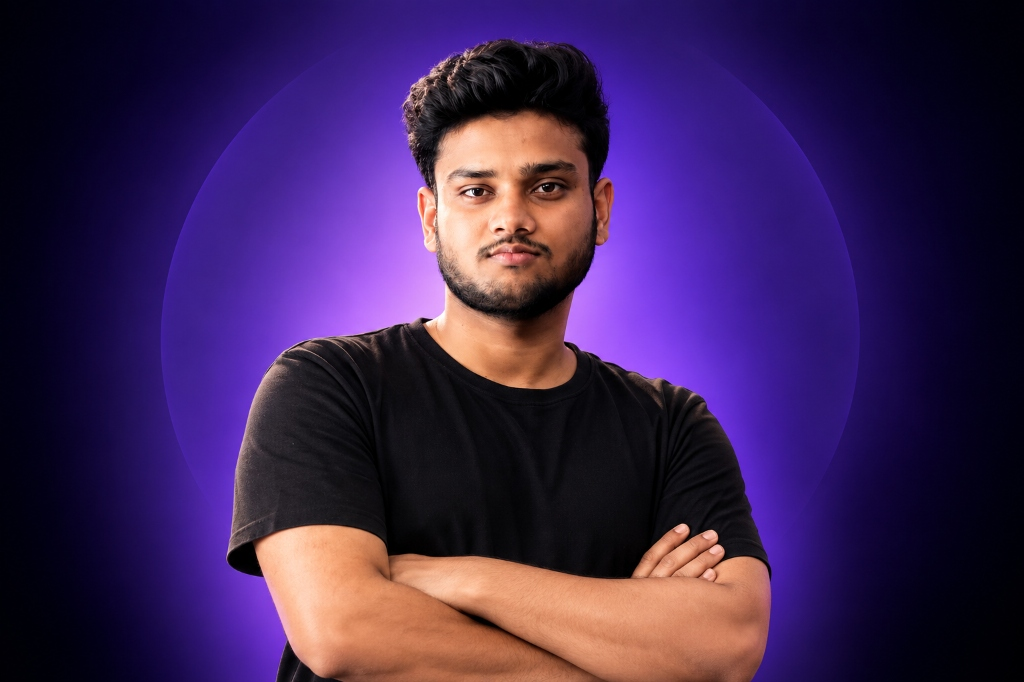
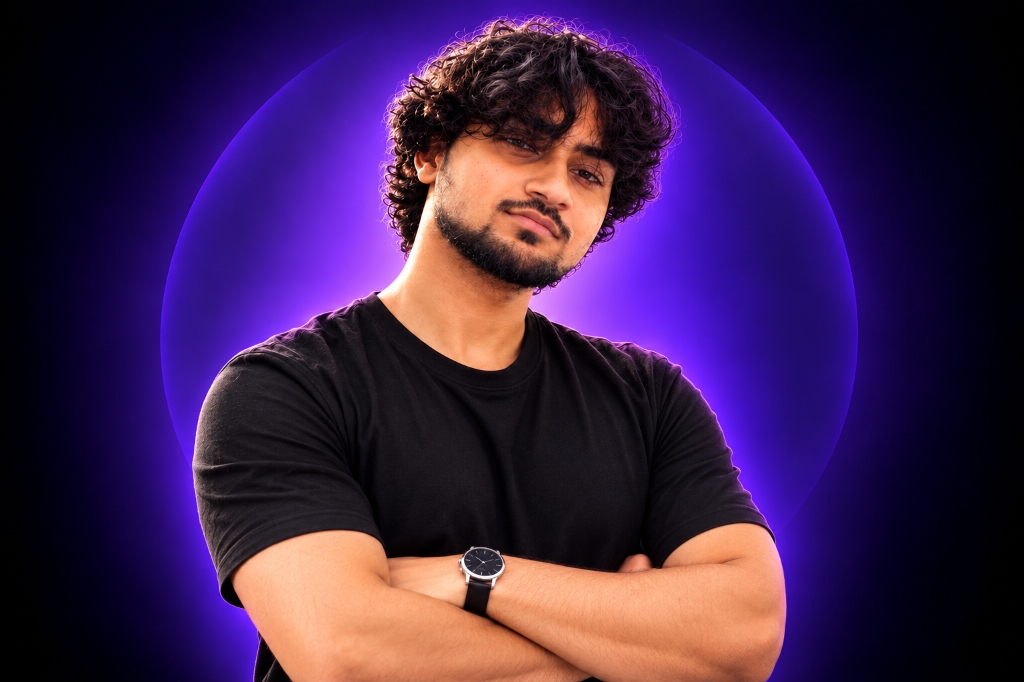
UI: Map correct mentor portraits and add Sparsh Bansal

diff --git a/src/App.tsx b/src/App.tsx
@@ -75,7 +75,7 @@ const mentors: MentorCard[] = [
   { initials: 'R', name: 'Raj', role: 'Mathematics Mentor', detail: 'IISER TVM · Mentored 2,200+ students across India with precision guidance on strategy, schedule optimization, and conceptual clarity.', tone: 'violet', portrait: '/mentors/raj.jpg', portraitAlt: 'Raj, MentoraX Mathematics Mentor', subjects: ['IAT Maths', 'Strategy', 'Schedule optimization'] },
   { initials: 'B', name: 'Bhavesha', role: 'Physics Mentor', detail: 'IISER TVM · Currently leading research projects at ISRO. Core guidance on exam methodology and physics orientation.', tone: 'sage', portrait: '/mentors/bhavesha.jpg', portraitAlt: 'Bhavesha, MentoraX Physics Mentor', subjects: ['Exam methodology', 'Physics orientation', 'ISRO research'] },
   { initials: 'AT', name: 'Aditya', role: 'Chemistry Mentor', detail: 'IIT Madras · AIR 544 in IAT 2026. Structured preparation blueprints for Physical, Organic, and Inorganic Chemistry.', tone: 'coral', portrait: '/mentors/aditya-thakur.jpg', portraitAlt: 'Aditya, MentoraX Chemistry Mentor', subjects: ['Physical', 'Organic', 'Inorganic'] },
-  { initials: 'SB', name: 'Sparsh', role: 'Biology Mentor', detail: 'IISER Tirupati · Targeted NCERT retention tactics and high-efficiency revision roadmaps for Biology.', tone: 'ink', subjects: ['NCERT Biology', 'Retention tactics', 'Revision roadmaps'] },
+  { initials: 'SB', name: 'Sparsh', role: 'Biology Mentor', detail: 'IISER Tirupati · Targeted NCERT retention tactics and high-efficiency revision roadmaps for Biology.', tone: 'ink', portrait: '/mentors/sparsh.jpg', portraitAlt: 'Sparsh, MentoraX Biology Mentor', subjects: ['NCERT Biology', 'Retention tactics', 'Revision roadmaps'] },
 ]
 
 const team = [
@@ -1060,10 +1060,10 @@ function Mentors() { return <><div className="page-intro-compact"><PageIntro ind
 // Add `image: '/images/team/<filename>.jpg'` to each entry when portrait photos are available
 const hoverTeamMembers: HoverMemberItem[] = [
   { name: 'Raj', role: 'CEO & Maths Mentor', initials: 'R', image: '/mentors/raj.jpg' },
-  { name: 'Dipti', role: 'CMO', initials: 'D', image: '/mentors/dipti.jpg' },
+  { name: 'Dipti', role: 'CMO', initials: 'D', image: '/mentors/dipti.webp' },
   { name: 'Bhavesha', role: 'Physics Mentor', initials: 'B', image: '/mentors/bhavesha.jpg' },
   { name: 'Aditya Thakur', role: 'Chemistry Mentor', initials: 'AT', image: '/mentors/aditya-thakur.jpg' },
-  { name: 'Sparsh Bansal', role: 'Biology Mentor', initials: 'SB' },
+  { name: 'Sparsh Bansal', role: 'Biology Mentor', initials: 'SB', image: '/mentors/sparsh.jpg' },
 ]
 
 function Team() {
